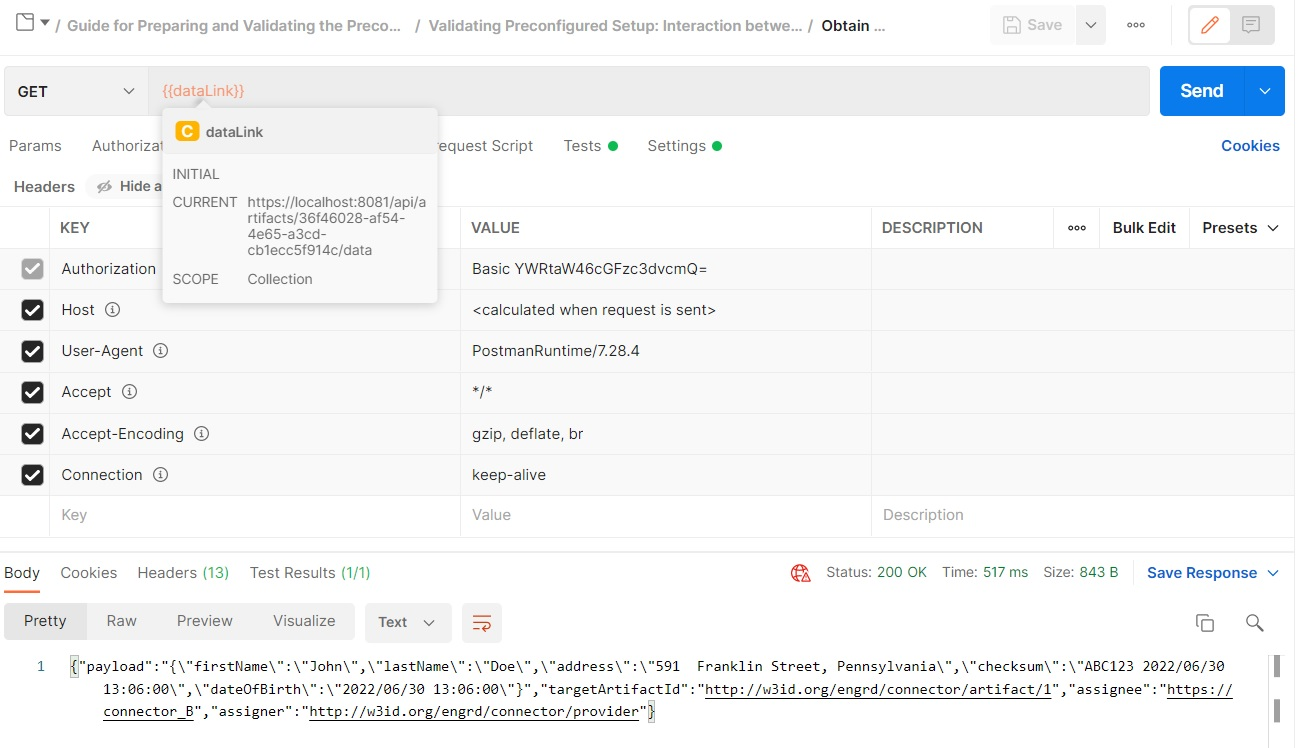
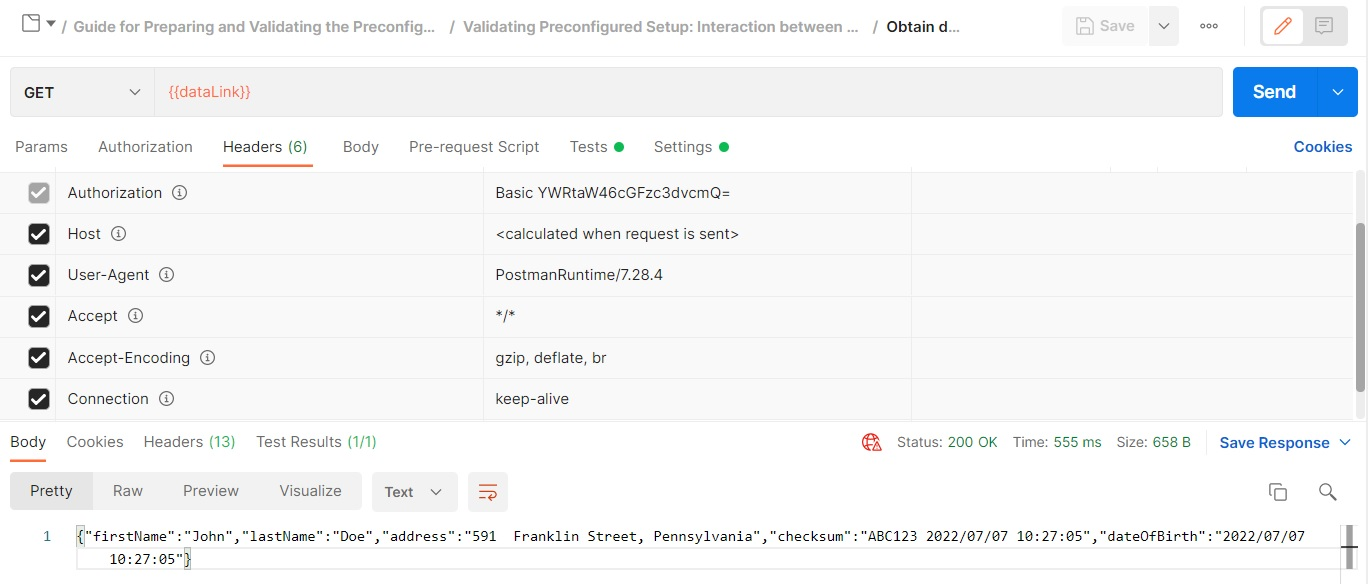
TESTBED readme update

diff --git a/TESTBED.md b/TESTBED.md
@@ -388,6 +388,12 @@ If not replaced by postman, make sure that URL in the postman has correct value 
 
 ### Obtain data
 
+You can find required request for Dataspace Connector in following section:
+
+![TC Obtain Data Request](doc/testbed/TC_ObtainData_request.jpg "TC Obtain Data Request")
+
+After executing request, response should look like in following picture:
+
 ![TC Obtain Data](doc/testbed/TC_ObtainData.jpg "TC Obtain Data")
 
 ## Broker interaction
